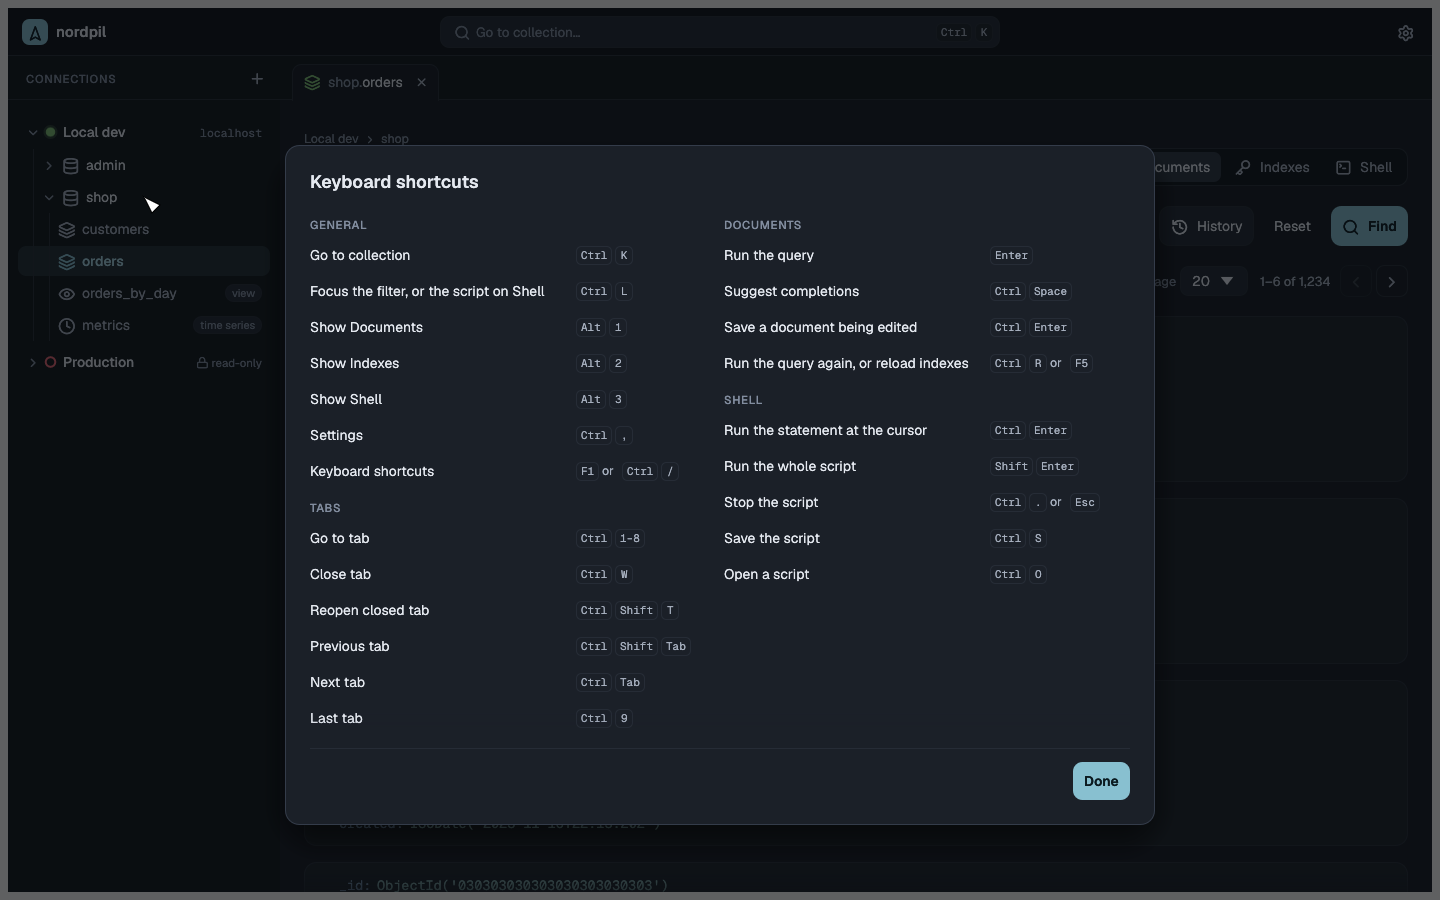
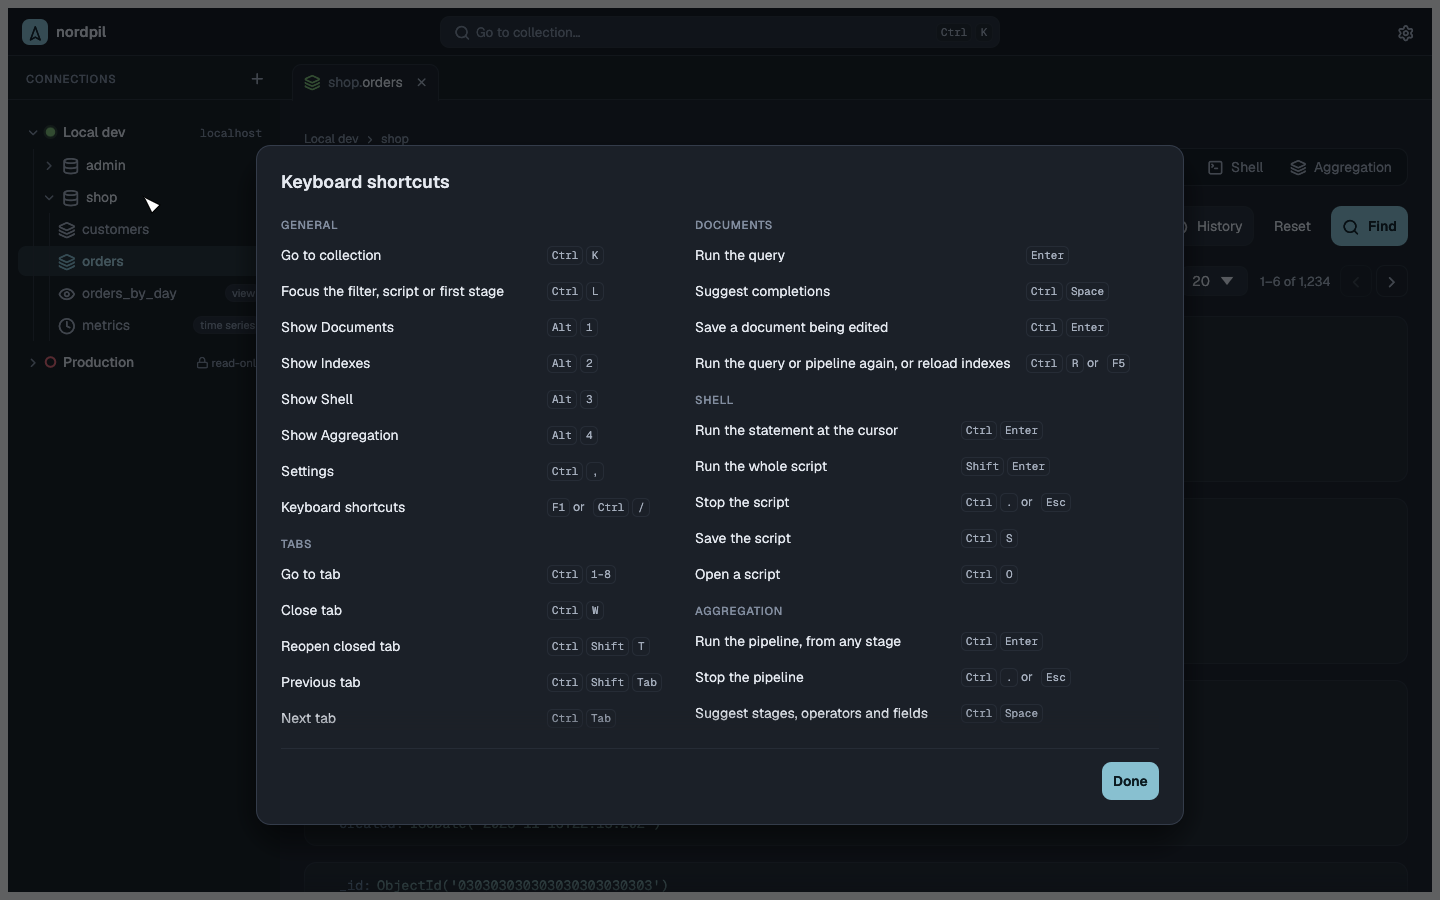
docs: aggregation panel in the README and screenshots

diff --git a/README.md b/README.md
@@ -40,12 +40,21 @@ when idle, against roughly 1 GB for Compass.
   history and favorites per collection; open and save `.js` files. Results sit below or
   beside the script, with a divider that drags to give either side more room. With
   lookups on, right-clicking an id in a result runs a `find` for it in a new tab's shell.
+- **Aggregation**: build a pipeline stage by stage, like Compass. Pick a stage, type its
+  value with completion for stage keys, expression operators, `'$field'` references
+  (from the stage before's output) and collection names. Each stage previews its first
+  10 documents as you type, on a sample of the collection by default. Turn stages off,
+  drag them into another order, or paste a pipeline from mongosh. Run reads the results
+  page by page from one server cursor, so Next doesn't rerun the pipeline; a count shows
+  the total. Stop (Ctrl+. or Esc) ends it on the server too. `$out` and `$merge` ask before
+  writing. Export the results, explain the pipeline, copy it as shell code or open it in
+  the Shell. Drafts, history and favorites per collection.
 - **Import and export**: JSON, JSON lines and CSV, streamed with progress and cancel.
 - **Settings**: dark, light or system theme, three text sizes, and whether Ctrl+K searches
   all saved connections or only open ones.
 - **Keyboard**: F1 lists every shortcut. Ctrl+W closes a tab and Ctrl+Shift+T brings it
-  back, Ctrl+Tab and Ctrl+1–9 switch tabs, Alt+1/2/3 switch between Documents, Indexes
-  and Shell, Ctrl+R reruns the query and Ctrl+, opens the settings. On macOS the keys use
+  back, Ctrl+Tab and Ctrl+1–9 switch tabs, Alt+1/2/3/4 switch between Documents, Indexes,
+  Shell and Aggregation, Ctrl+R reruns the query or pipeline and Ctrl+, opens the settings. On macOS the keys use
   ⌘ and the same commands sit in the menu bar. Tabs carry their connection's color.
 
 | Go to collection (Ctrl+K) | Values from the results |
@@ -57,8 +66,8 @@ when idle, against roughly 1 GB for Compass.
 | ![Indexes](docs/screenshots/indexes.png) | ![Light theme](docs/screenshots/main-light.png) |
 | **Shell** | **Shell, side by side** |
 | ![Shell](docs/screenshots/shell.png) | ![Shell side by side](docs/screenshots/shell-side-by-side.png) |
-| **Keyboard shortcuts (F1)** | |
-| ![Keyboard shortcuts](docs/screenshots/shortcuts.png) | |
+| **Aggregation** | **Keyboard shortcuts (F1)** |
+| ![Aggregation](docs/screenshots/aggregate.png) | ![Keyboard shortcuts](docs/screenshots/shortcuts.png) |
 
 ## Install
 
